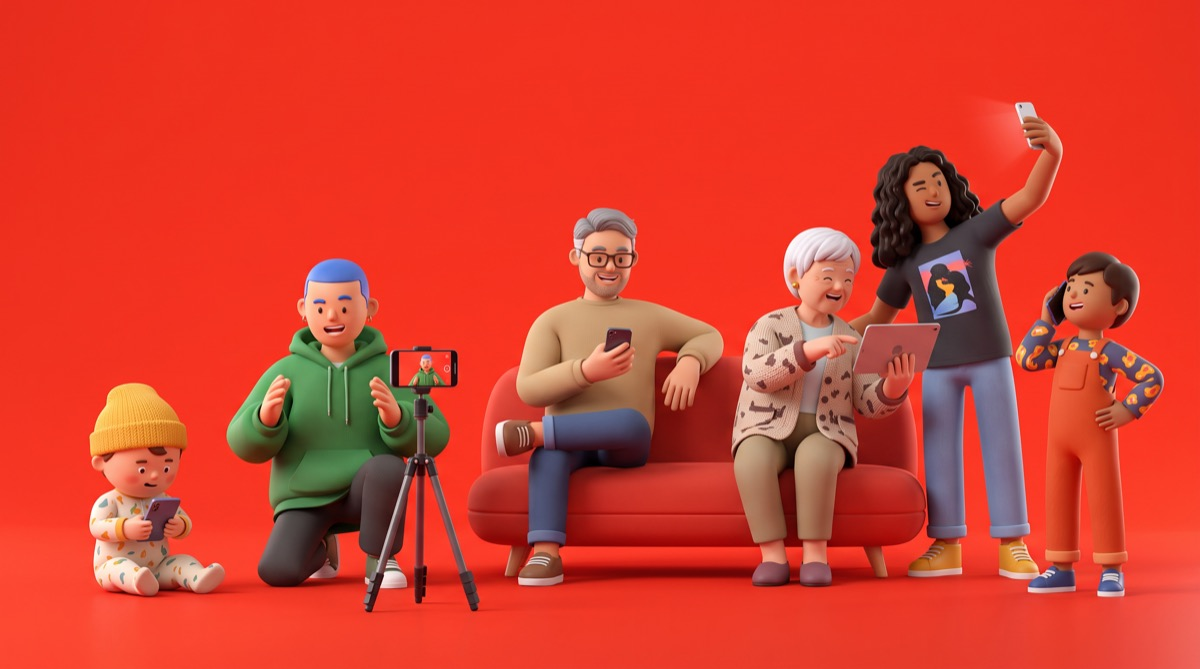
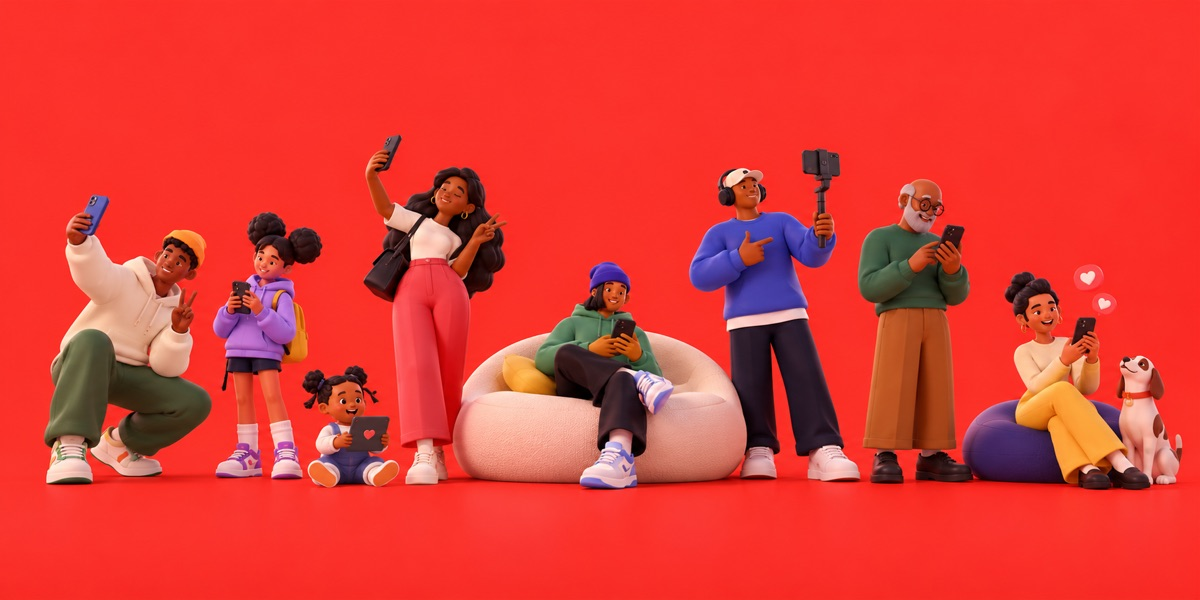
Use the Connected in Color plate for Tagmi
This swap was made once already, but it went onto theme-modes-wip along with
the theme groundwork when that work was parked, so main was still carrying the
earlier 3D-character export.

Ships at 1200 and its native 1774 rather than a round tier: the source is
1774px wide, well under the rest of the set, so resampling up to 2000 would
cost bytes without adding detail.

diff --git a/src/data.ts b/src/data.ts
@@ -139,7 +139,7 @@ import tagmi021200 from './assets/tagmi-02-1200.jpg'
 import tagmi022000 from './assets/tagmi-02-2000.jpg'
 import tagmi023000 from './assets/tagmi-02-3000.jpg'
 import tagmi041200 from './assets/tagmi-04-1200.jpg'
-import tagmi042000 from './assets/tagmi-04-2000.jpg'
+import tagmi041774 from './assets/tagmi-04-1774.jpg'
 import tagmi031200 from './assets/tagmi-03-1200.jpg'
 import tagmi032000 from './assets/tagmi-03-2000.jpg'
 import tagmi033000 from './assets/tagmi-03-3000.jpg'
@@ -210,7 +210,10 @@ const FRAMES = {
   escro02: frame([[escro021200, 1200], [escro022000, 2000], [escro023000, 3000]]),
   // Only two tiers: the source is 2752px wide, so a 3000 would be upscaled —
   // bigger bytes for no more detail.
-  tagmi04: frame([[tagmi041200, 1200], [tagmi042000, 2000]]),
+  // 1774 is this plate's native width rather than a round tier: the source is
+  // smaller than every other frame in the set, so resampling it up to 2000
+  // would cost bytes without adding detail.
+  tagmi04: frame([[tagmi041200, 1200], [tagmi041774, 1774]]),
   tagmi01: frame([[tagmi011200, 1200], [tagmi012000, 2000], [tagmi013000, 3000]]),
   tagmi02: frame([[tagmi021200, 1200], [tagmi022000, 2000], [tagmi023000, 3000]]),
   tagmi03: frame([[tagmi031200, 1200], [tagmi032000, 2000], [tagmi033000, 3000]]),
